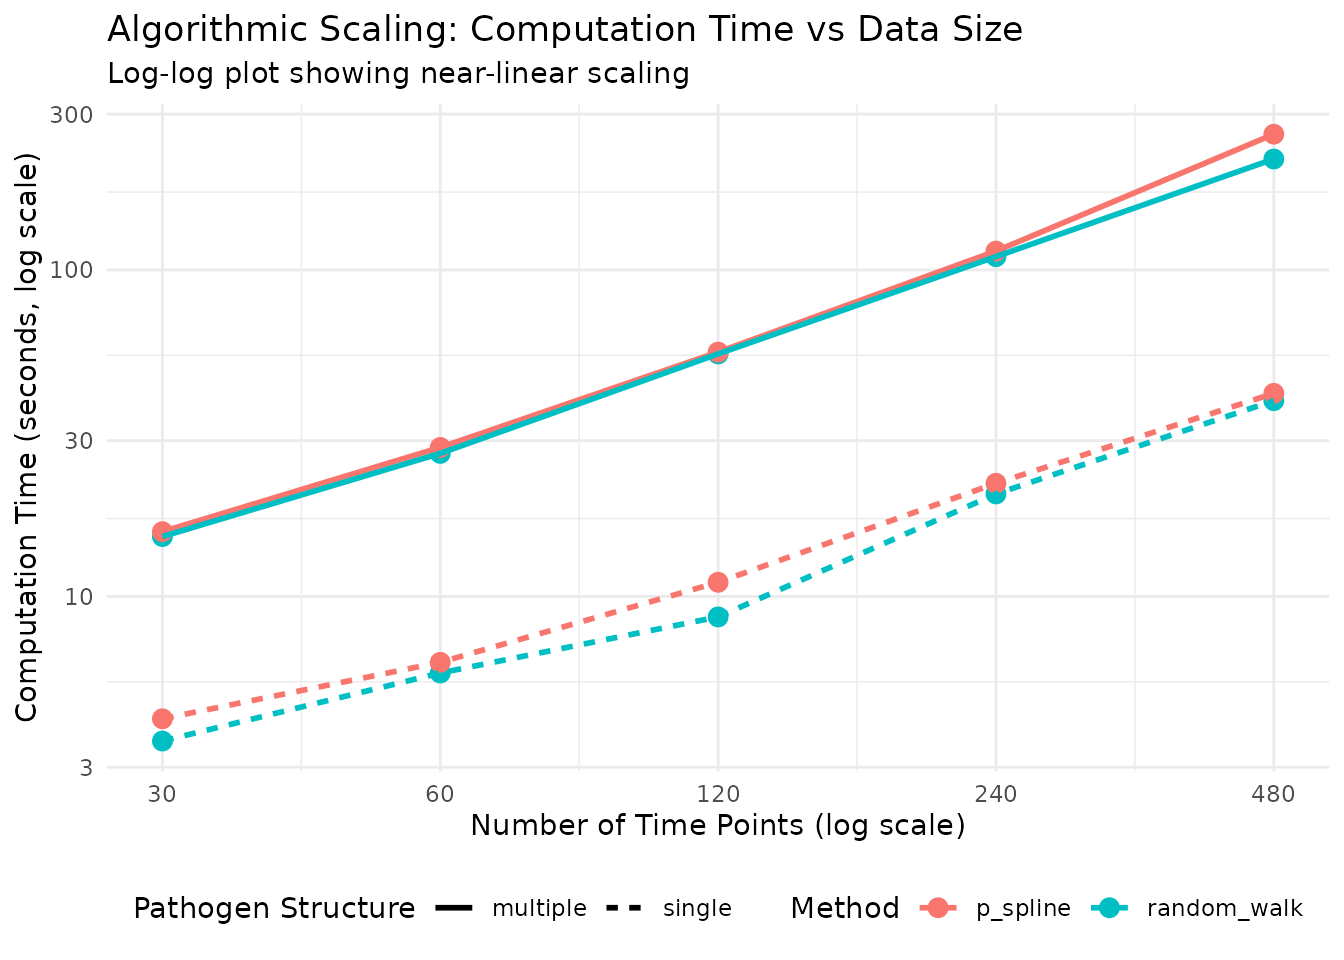
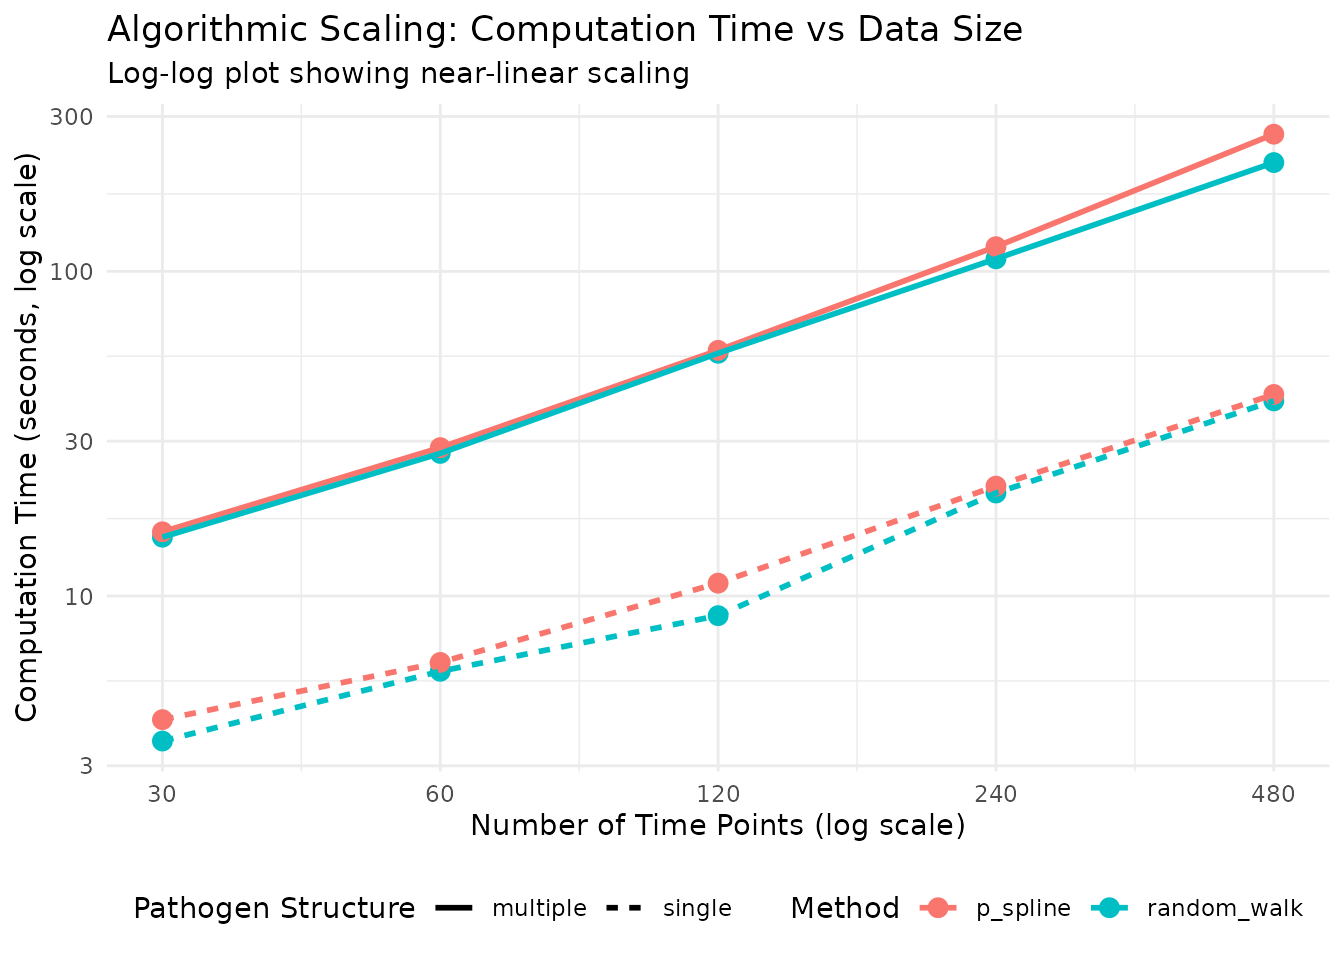
Deploying to gh-pages from @ acefa-hubs/EpiStrainDynamics@f09a92b909f4c87ef35b6dd33fa4a6112f507b7b 🚀

diff --git a/reference/fit_model.html b/reference/fit_model.html
@@ -169,38 +169,47 @@
 
 
 <dt id="arg-n-iter">n_iter<a class="anchor" aria-label="anchor" href="#arg-n-iter"></a></dt>
-<dd><p>A positive integer specifying the number of iterations for each chain, default value is  2000</p></dd>
+<dd><p>A positive integer specifying the number of iterations for each
+chain, default value is 2000</p></dd>
 
 
 <dt id="arg-n-warmup">n_warmup<a class="anchor" aria-label="anchor" href="#arg-n-warmup"></a></dt>
-<dd><p>A positive integer specifying the number of warmup iterations, default value is half the number of iterations</p></dd>
+<dd><p>A positive integer specifying the number of warmup
+iterations,default value is half the number of iterations</p></dd>
 
 
 <dt id="arg-thin">thin<a class="anchor" aria-label="anchor" href="#arg-thin"></a></dt>
-<dd><p>A positive integer specifying the period for saving samples, default value is 1.</p></dd>
+<dd><p>A positive integer specifying the period for saving samples,
+default value is 1.</p></dd>
 
 
 <dt id="arg-adapt-delta">adapt_delta<a class="anchor" aria-label="anchor" href="#arg-adapt-delta"></a></dt>
-<dd><p>Numeric value between 0 and 1 indicating target average acceptance probability used in <code><a href="https://mc-stan.org/rstan/reference/stanmodel-method-sampling.html" class="external-link">rstan::sampling</a></code>. Default value is 0.9.</p></dd>
+<dd><p>Numeric value between 0 and 1 indicating target average
+acceptance probability used in <code><a href="https://mc-stan.org/rstan/reference/stanmodel-method-sampling.html" class="external-link">rstan::sampling</a></code>. Default value is 0.9.</p></dd>
 
 
 <dt id="arg-multi-cores">multi_cores<a class="anchor" aria-label="anchor" href="#arg-multi-cores"></a></dt>
-<dd><p>A logical value indicating whether to parallelize chains with multiple cores, default is TRUE and uses all available cores - 1.</p></dd>
+<dd><p>A logical value indicating whether to parallelize chains
+with multiple cores, default is TRUE and uses all available cores - 1.</p></dd>
 
 
 <dt id="arg-verbose">verbose<a class="anchor" aria-label="anchor" href="#arg-verbose"></a></dt>
-<dd><p>Logical value controlling the verbosity of output. When TRUE (default),
-shows all messages, warnings, errors, and progress indicators. When FALSE, suppresses
-messages and progress while retaining warnings and errors.</p></dd>
+<dd><p>Logical value controlling the verbosity of output. When TRUE
+(default), shows all messages, warnings, errors, and progress indicators.
+When FALSE, suppresses messages and progress while retaining warnings and
+errors.</p></dd>
 
 
 <dt id="arg-suppress-warnings">suppress_warnings<a class="anchor" aria-label="anchor" href="#arg-suppress-warnings"></a></dt>
-<dd><p>Logical value indicating whether to suppress warnings from Stan.
-Default is FALSE. When TRUE, warnings are suppressed but errors are still raised.</p></dd>
+<dd><p>Logical value indicating whether to suppress
+warnings from Stan. Default is FALSE. When TRUE, warnings are suppressed
+but errors are still raised.</p></dd>
 
 
 <dt id="arg-seed">seed<a class="anchor" aria-label="anchor" href="#arg-seed"></a></dt>
-<dd><p>A positive integer seed used for random number generation in MCMC. Default is NULL, which means the seed is generated from 1 to the maximum integer supported by R.</p></dd>
+<dd><p>A positive integer seed used for random number generation in
+MCMC. Default is NULL, which means the seed is generated from 1 to the
+maximum integer supported by R.</p></dd>
 
 
 <dt id="arg--">...<a class="anchor" aria-label="anchor" href="#arg--"></a></dt>

diff --git a/articles/algorithmic-scaling.html b/articles/algorithmic-scaling.html
@@ -372,26 +372,26 @@ O(n^exponent)</caption>
 <tr class="odd">
 <td align="left">p_spline</td>
 <td align="left">multiple</td>
-<td align="right">1.008</td>
-<td align="right">0.996</td>
+<td align="right">1.019</td>
+<td align="right">0.997</td>
 </tr>
 <tr class="even">
 <td align="left">p_spline</td>
 <td align="left">single</td>
-<td align="right">0.844</td>
+<td align="right">0.846</td>
 <td align="right">0.991</td>
 </tr>
 <tr class="odd">
 <td align="left">random_walk</td>
 <td align="left">multiple</td>
-<td align="right">0.968</td>
+<td align="right">0.966</td>
 <td align="right">0.999</td>
 </tr>
 <tr class="even">
 <td align="left">random_walk</td>
 <td align="left">single</td>
-<td align="right">0.875</td>
-<td align="right">0.981</td>
+<td align="right">0.878</td>
+<td align="right">0.982</td>
 </tr>
 </tbody>
 </table>
@@ -998,7 +998,7 @@ on data similar to its intended use case.</p>
 <span><span class="co">#&gt; [43] ragg_1.5.1            generics_0.1.4        otel_0.2.0           </span></span>
 <span><span class="co">#&gt; [46] RcppParallel_5.1.11-2 future.apply_1.20.2   cachem_1.1.0         </span></span>
 <span><span class="co">#&gt; [49] rstan_2.32.7          splines_4.5.3         bayesplot_1.15.0     </span></span>
-<span><span class="co">#&gt; [52] parallel_4.5.3        matrixStats_1.5.0     vctrs_0.7.1          </span></span>
+<span><span class="co">#&gt; [52] parallel_4.5.3        matrixStats_1.5.0     vctrs_0.7.2          </span></span>
 <span><span class="co">#&gt; [55] hardhat_1.4.2         Matrix_1.7-4          jsonlite_2.0.0       </span></span>
 <span><span class="co">#&gt; [58] listenv_0.10.1        systemfonts_1.3.2     gower_1.0.2          </span></span>
 <span><span class="co">#&gt; [61] jquerylib_0.1.4       tidyr_1.3.2           recipes_1.3.1        </span></span>
@@ -1010,7 +1010,7 @@ on data similar to its intended use case.</p>
 <span><span class="co">#&gt; [79] textshaping_1.0.5     evaluate_1.0.5        lattice_0.22-9       </span></span>
 <span><span class="co">#&gt; [82] tsibble_1.2.0         bslib_0.10.0          rstantools_2.6.0     </span></span>
 <span><span class="co">#&gt; [85] class_7.3-23          Rcpp_1.1.1            gridExtra_2.3        </span></span>
-<span><span class="co">#&gt; [88] prodlim_2026.03.11    xfun_0.56             fs_1.6.7             </span></span>
+<span><span class="co">#&gt; [88] prodlim_2026.03.11    xfun_0.57             fs_2.0.0             </span></span>
 <span><span class="co">#&gt; [91] zoo_1.8-15            pkgconfig_2.0.3</span></span></code></pre></div>
 </div>
   </main><aside class="col-md-3"><nav id="toc" aria-label="Table of contents"><h2>On this page</h2>

diff --git a/articles/parameter-recovery.html b/articles/parameter-recovery.html
@@ -1002,7 +1002,7 @@ intended.</p>
 <span><span class="co">#&gt; [43] ragg_1.5.1            generics_0.1.4        otel_0.2.0           </span></span>
 <span><span class="co">#&gt; [46] RcppParallel_5.1.11-2 future.apply_1.20.2   cachem_1.1.0         </span></span>
 <span><span class="co">#&gt; [49] rstan_2.32.7          splines_4.5.3         bayesplot_1.15.0     </span></span>
-<span><span class="co">#&gt; [52] parallel_4.5.3        matrixStats_1.5.0     vctrs_0.7.1          </span></span>
+<span><span class="co">#&gt; [52] parallel_4.5.3        matrixStats_1.5.0     vctrs_0.7.2          </span></span>
 <span><span class="co">#&gt; [55] hardhat_1.4.2         Matrix_1.7-4          jsonlite_2.0.0       </span></span>
 <span><span class="co">#&gt; [58] listenv_0.10.1        systemfonts_1.3.2     gower_1.0.2          </span></span>
 <span><span class="co">#&gt; [61] jquerylib_0.1.4       tidyr_1.3.2           recipes_1.3.1        </span></span>
@@ -1014,7 +1014,7 @@ intended.</p>
 <span><span class="co">#&gt; [79] textshaping_1.0.5     evaluate_1.0.5        lattice_0.22-9       </span></span>
 <span><span class="co">#&gt; [82] tsibble_1.2.0         bslib_0.10.0          rstantools_2.6.0     </span></span>
 <span><span class="co">#&gt; [85] class_7.3-23          Rcpp_1.1.1            gridExtra_2.3        </span></span>
-<span><span class="co">#&gt; [88] prodlim_2026.03.11    xfun_0.56             fs_1.6.7             </span></span>
+<span><span class="co">#&gt; [88] prodlim_2026.03.11    xfun_0.57             fs_2.0.0             </span></span>
 <span><span class="co">#&gt; [91] zoo_1.8-15            pkgconfig_2.0.3</span></span></code></pre></div>
 </div>
   </main><aside class="col-md-3"><nav id="toc" aria-label="Table of contents"><h2>On this page</h2>

diff --git a/articles/algorithmic-scaling.md b/articles/algorithmic-scaling.md
@@ -290,10 +290,10 @@ knitr::kable(scaling_results, digits = 3,
 
 | method      | pathogen_structure | scaling_exponent | r_squared |
 |:------------|:-------------------|-----------------:|----------:|
-| p_spline    | multiple           |            1.008 |     0.996 |
-| p_spline    | single             |            0.844 |     0.991 |
-| random_walk | multiple           |            0.968 |     0.999 |
-| random_walk | single             |            0.875 |     0.981 |
+| p_spline    | multiple           |            1.019 |     0.997 |
+| p_spline    | single             |            0.846 |     0.991 |
+| random_walk | multiple           |            0.966 |     0.999 |
+| random_walk | single             |            0.878 |     0.982 |
 
 Scaling exponents: time complexity approximately O(n^exponent)
 
@@ -827,7 +827,7 @@ sessionInfo()
 #> [43] ragg_1.5.1            generics_0.1.4        otel_0.2.0           
 #> [46] RcppParallel_5.1.11-2 future.apply_1.20.2   cachem_1.1.0         
 #> [49] rstan_2.32.7          splines_4.5.3         bayesplot_1.15.0     
-#> [52] parallel_4.5.3        matrixStats_1.5.0     vctrs_0.7.1          
+#> [52] parallel_4.5.3        matrixStats_1.5.0     vctrs_0.7.2          
 #> [55] hardhat_1.4.2         Matrix_1.7-4          jsonlite_2.0.0       
 #> [58] listenv_0.10.1        systemfonts_1.3.2     gower_1.0.2          
 #> [61] jquerylib_0.1.4       tidyr_1.3.2           recipes_1.3.1        
@@ -839,6 +839,6 @@ sessionInfo()
 #> [79] textshaping_1.0.5     evaluate_1.0.5        lattice_0.22-9       
 #> [82] tsibble_1.2.0         bslib_0.10.0          rstantools_2.6.0     
 #> [85] class_7.3-23          Rcpp_1.1.1            gridExtra_2.3        
-#> [88] prodlim_2026.03.11    xfun_0.56             fs_1.6.7             
+#> [88] prodlim_2026.03.11    xfun_0.57             fs_2.0.0             
 #> [91] zoo_1.8-15            pkgconfig_2.0.3
 ```

diff --git a/articles/parameter-recovery.md b/articles/parameter-recovery.md
@@ -771,7 +771,7 @@ sessionInfo()
 #> [43] ragg_1.5.1            generics_0.1.4        otel_0.2.0           
 #> [46] RcppParallel_5.1.11-2 future.apply_1.20.2   cachem_1.1.0         
 #> [49] rstan_2.32.7          splines_4.5.3         bayesplot_1.15.0     
-#> [52] parallel_4.5.3        matrixStats_1.5.0     vctrs_0.7.1          
+#> [52] parallel_4.5.3        matrixStats_1.5.0     vctrs_0.7.2          
 #> [55] hardhat_1.4.2         Matrix_1.7-4          jsonlite_2.0.0       
 #> [58] listenv_0.10.1        systemfonts_1.3.2     gower_1.0.2          
 #> [61] jquerylib_0.1.4       tidyr_1.3.2           recipes_1.3.1        
@@ -783,6 +783,6 @@ sessionInfo()
 #> [79] textshaping_1.0.5     evaluate_1.0.5        lattice_0.22-9       
 #> [82] tsibble_1.2.0         bslib_0.10.0          rstantools_2.6.0     
 #> [85] class_7.3-23          Rcpp_1.1.1            gridExtra_2.3        
-#> [88] prodlim_2026.03.11    xfun_0.56             fs_1.6.7             
+#> [88] prodlim_2026.03.11    xfun_0.57             fs_2.0.0             
 #> [91] zoo_1.8-15            pkgconfig_2.0.3
 ```

diff --git a/reference/fit_model.md b/reference/fit_model.md
@@ -127,7 +127,7 @@ fit_model(
 
 - n_warmup:
 
-  A positive integer specifying the number of warmup iterations, default
+  A positive integer specifying the number of warmup iterations,default
   value is half the number of iterations
 
 - thin: